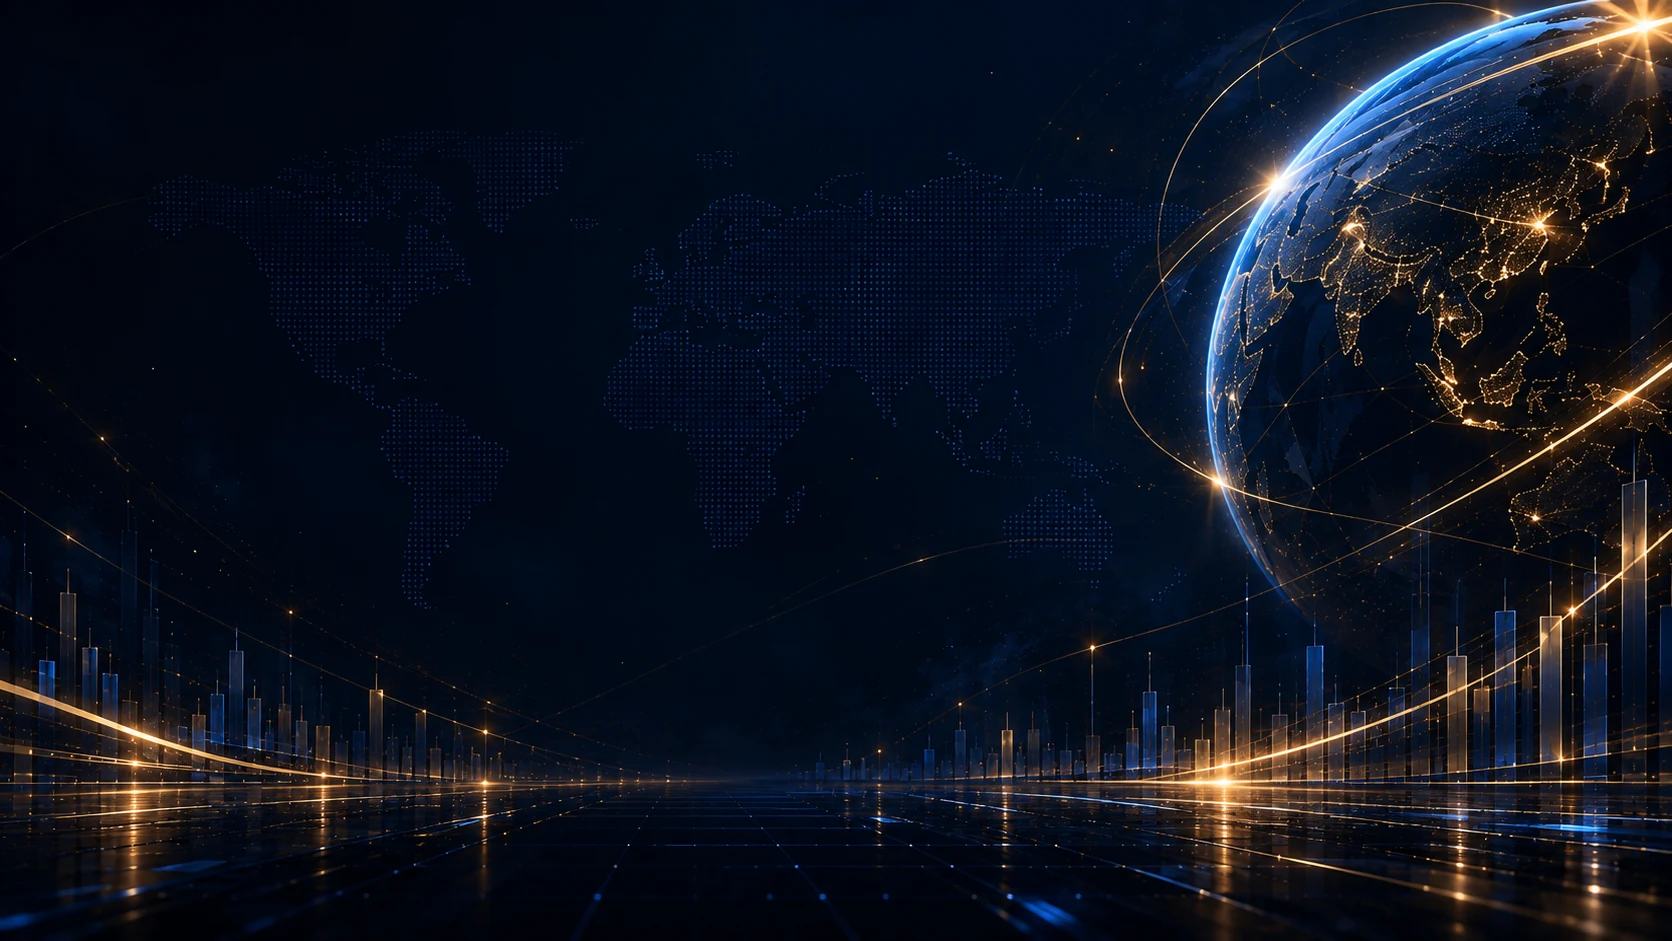
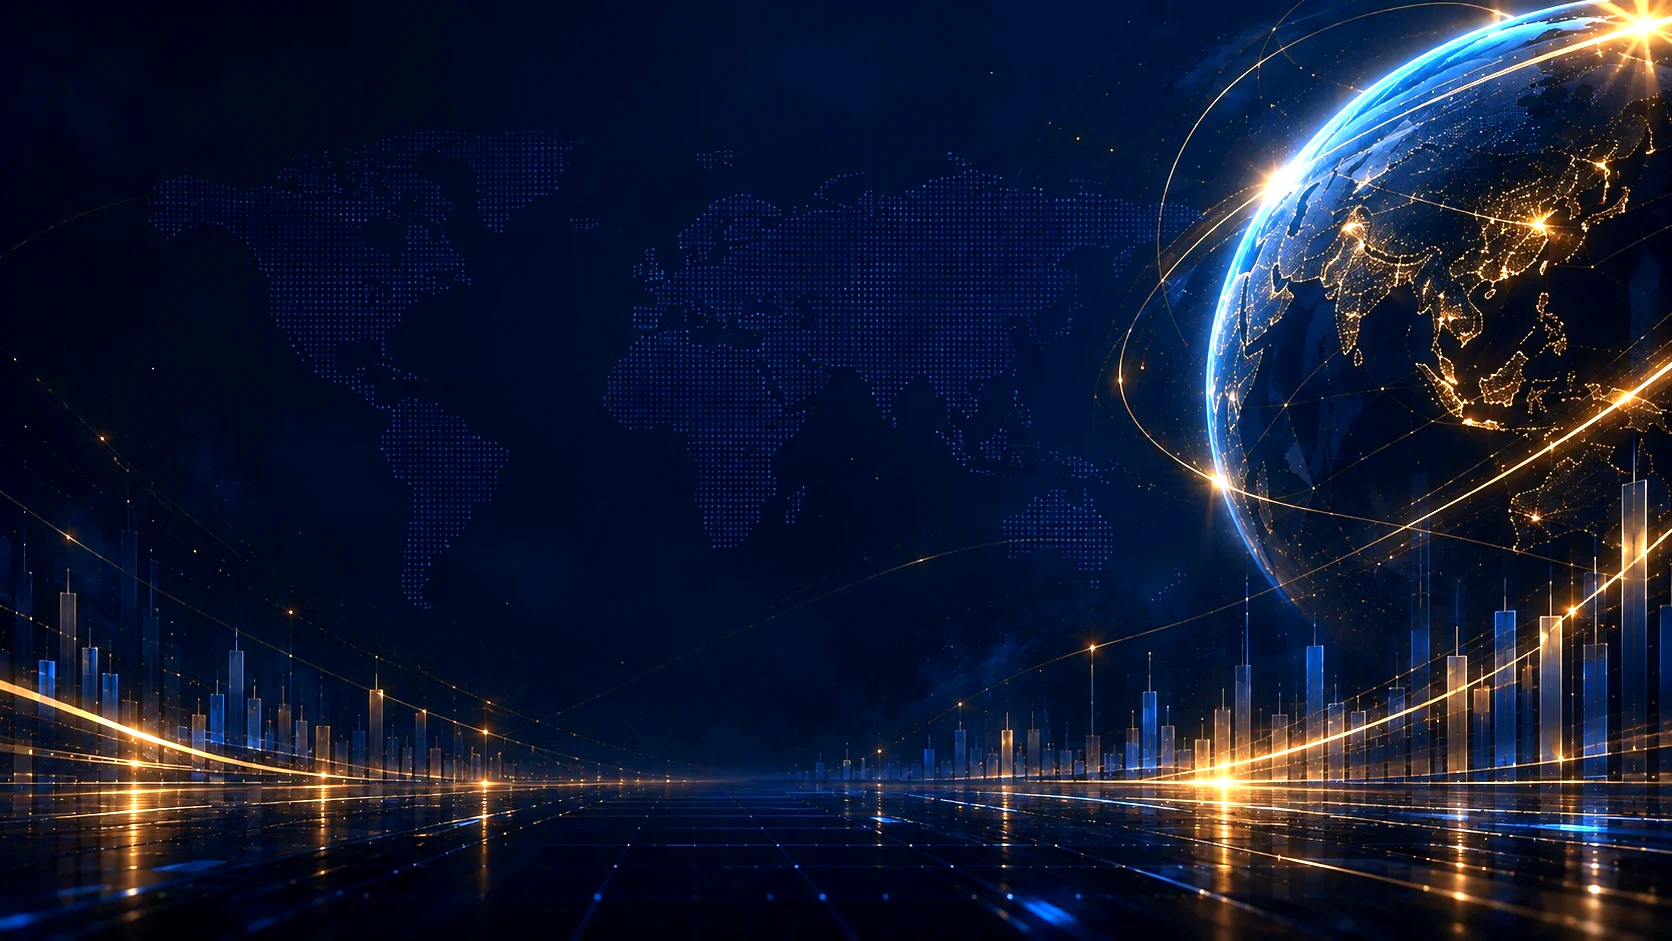
Add files via upload

diff --git a/app.html b/app.html
@@ -21744,6 +21744,34 @@ body.mmhvault-scroll-active #invest .panel{transition:none!important}
   window.alert=function(message){window.MMHV4.alert(message);};
 })();
 </script>
+
+<style id="mmhvault-bg-only-bright-v20260926">
+/* BACKGROUND ONLY — data/layout/function untouched. */
+html{background:#04102a!important;}
+body{
+  background-color:#04102a!important;
+  background-image:
+    linear-gradient(rgba(2,8,20,.18),rgba(2,8,20,.28)),
+    url("images/mmhvault-bg-v342.webp") !important;
+  background-size:cover!important;
+  background-position:center top!important;
+  background-repeat:no-repeat!important;
+  background-attachment:fixed!important;
+}
+/* Disable the older embedded background layer so it cannot darken/override the new one. */
+body::before{
+  background:none!important;
+}
+@media(max-width:900px){
+  body{
+    background-image:
+      linear-gradient(rgba(2,8,20,.22),rgba(2,8,20,.34)),
+      url("images/mmhvault-bg-v342.webp") !important;
+    background-attachment:scroll!important;
+    background-position:center top!important;
+  }
+}
+</style>
 </body>
 <!-- MMHVAULT V4.3.0 performance baseline: logo-free account cards + restrained dashboard rendering. -->
 <style id="mmhvault-v3445-analyze-premium-polish">
@@ -21993,42 +22021,3 @@ input:focus-visible,select:focus-visible,textarea:focus-visible,.btn:focus-visib
 @media(max-width:950px){#transactions #txAdjustmentHelp{grid-column:1/-1;}}
 </style>
 </html>
-<style id="mmhvault-fixed-fullpage-background-v500">
-/* MMHVAULT V5.0 — Background-only visual fix. No data/UI/layout logic changes. */
-html{min-height:100%;background:#020814!important;}
-body{
-  position:relative!important;
-  min-height:100vh!important;
-  background:#020814!important;
-  isolation:isolate;
-}
-body::before{
-  content:""!important;
-  position:fixed!important;
-  inset:0!important;
-  width:100vw!important;
-  height:100vh!important;
-  pointer-events:none!important;
-  z-index:-1!important;
-  background:
-    linear-gradient(rgba(2,8,20,.50),rgba(2,8,20,.68)),
-    url("images/mmhvault-bg-v342.webp") center center / cover no-repeat!important;
-  background-attachment:fixed!important;
-}
-body::after{
-  content:"";
-  position:fixed;
-  inset:0;
-  pointer-events:none;
-  z-index:-1;
-  background:
-    radial-gradient(circle at 72% 12%,rgba(70,199,255,.055),transparent 28%),
-    radial-gradient(circle at 22% 72%,rgba(245,196,81,.035),transparent 25%),
-    linear-gradient(180deg,rgba(1,7,18,.02),rgba(1,7,18,.18));
-}
-.wrap{background:transparent!important;}
-.page{background:transparent!important;backdrop-filter:none!important;-webkit-backdrop-filter:none!important;}
-@media(max-width:900px){
-  body::before{background-attachment:fixed!important;background-position:center center!important;}
-}
-</style>
